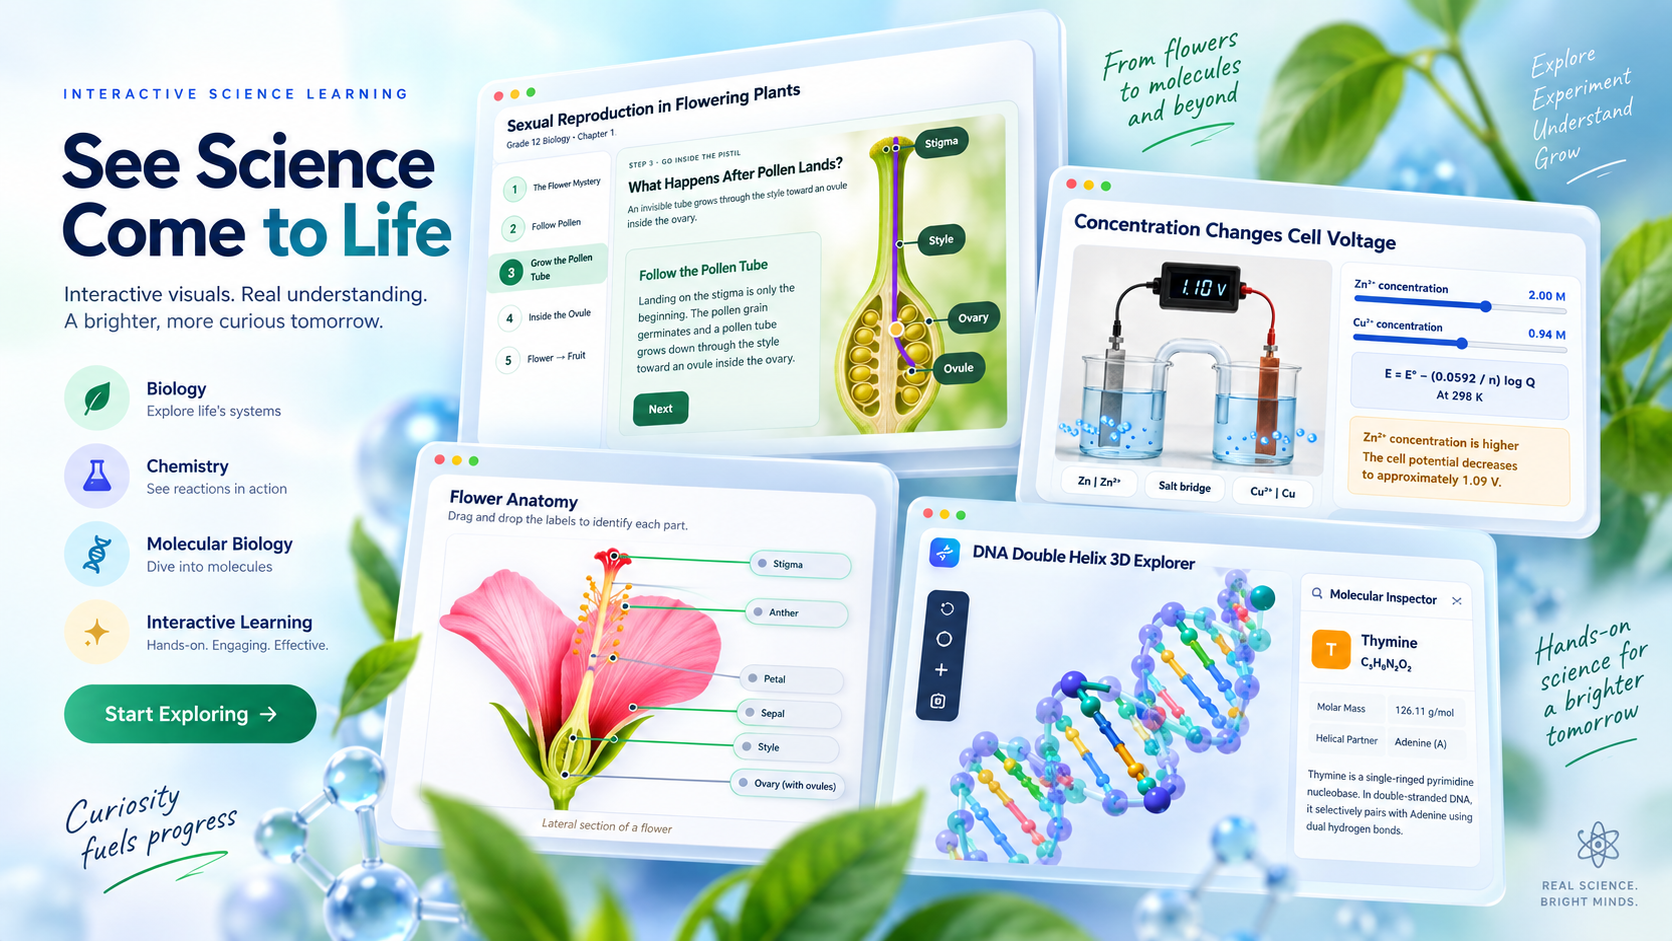
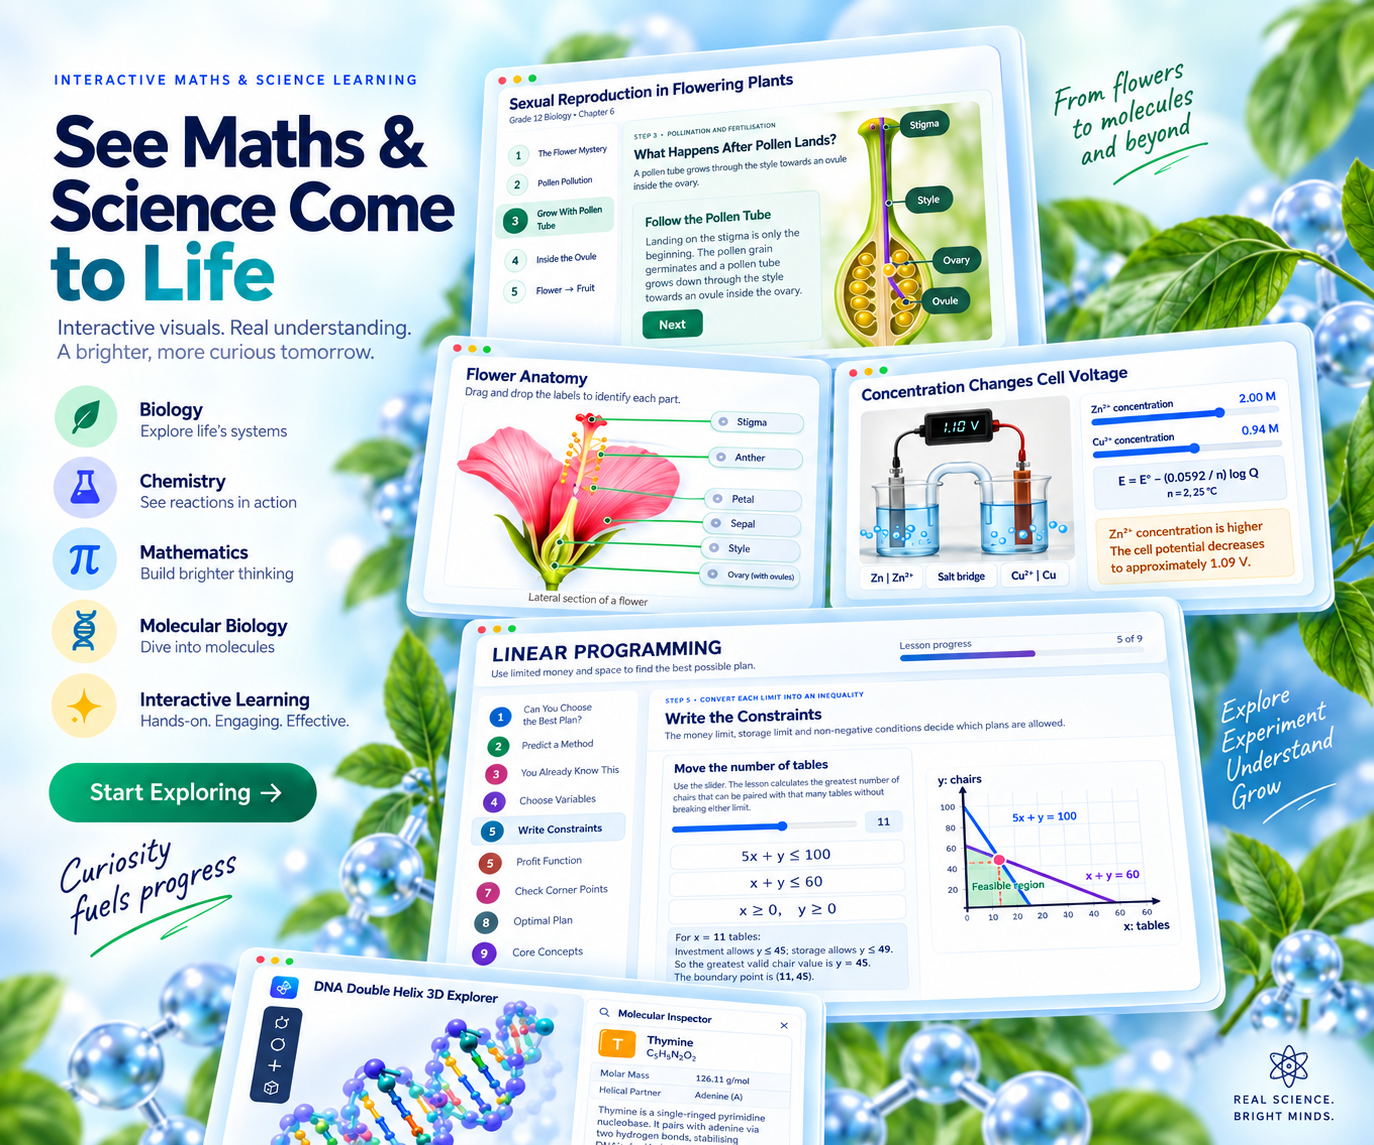
Use the maths and science collage in a vertical hero
Stack the hero copy above the new collage so it reads full-width, local review only.

diff --git a/src/components/home/SchoolHero.tsx b/src/components/home/SchoolHero.tsx
@@ -9,7 +9,7 @@ export function SchoolHero() {
     <>
       <section className="relative mx-auto max-w-6xl overflow-hidden px-5 pt-10 pb-8 sm:px-8 sm:pt-14">
         <div className="pointer-events-none absolute -top-40 -right-20 size-[28rem] rounded-full bg-[radial-gradient(circle,rgba(59,130,246,0.18),transparent_70%)]" />
-        <div className="grid items-center gap-10 lg:grid-cols-[1.08fr_0.92fr] lg:gap-14">
+        <div className="flex flex-col gap-10">
           <div>
             <p className="inline-flex items-center gap-2 rounded-full border border-foreground/15 bg-white/70 px-3 py-1.5 text-[12px] font-semibold">
               <span className="size-2 rounded-full bg-li-green" />
@@ -57,9 +57,9 @@ export function SchoolHero() {
           <div className="overflow-hidden rounded-[2rem] bg-white shadow-[0_22px_50px_-28px_rgba(27,63,71,0.45)] ring-1 ring-foreground/8">
             <Image
               src="/product/science-come-to-life.png"
-              alt="Interactive science learning: flower anatomy, pollination, cell voltage, and a DNA helix explorer."
-              width={1672}
-              height={941}
+              alt="Interactive maths and science learning: flower anatomy, cell voltage, linear programming, and a DNA helix explorer."
+              width={1374}
+              height={1145}
               priority
               className="h-auto w-full"
             />
